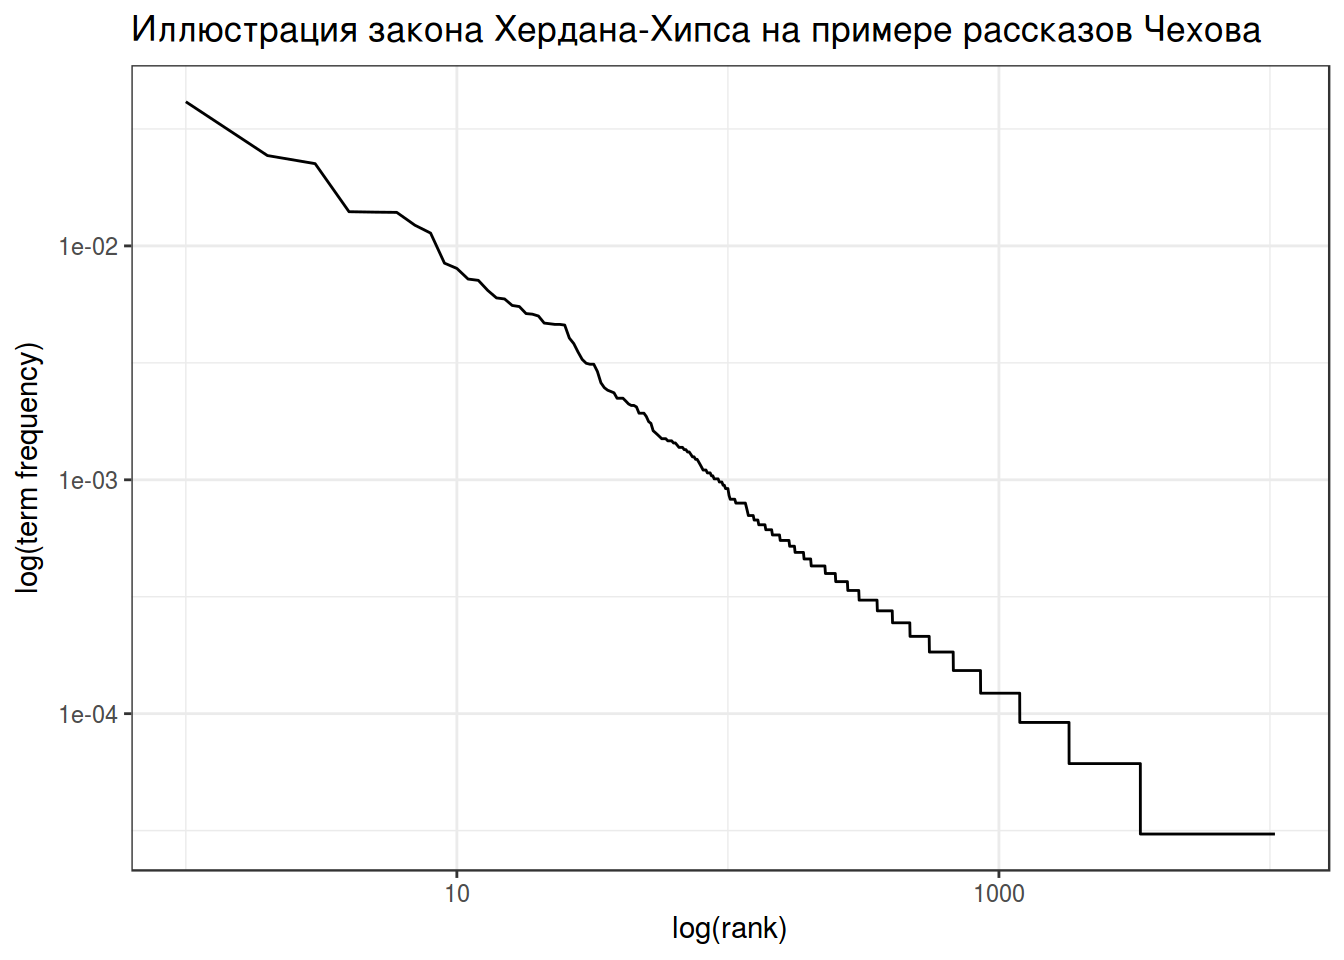
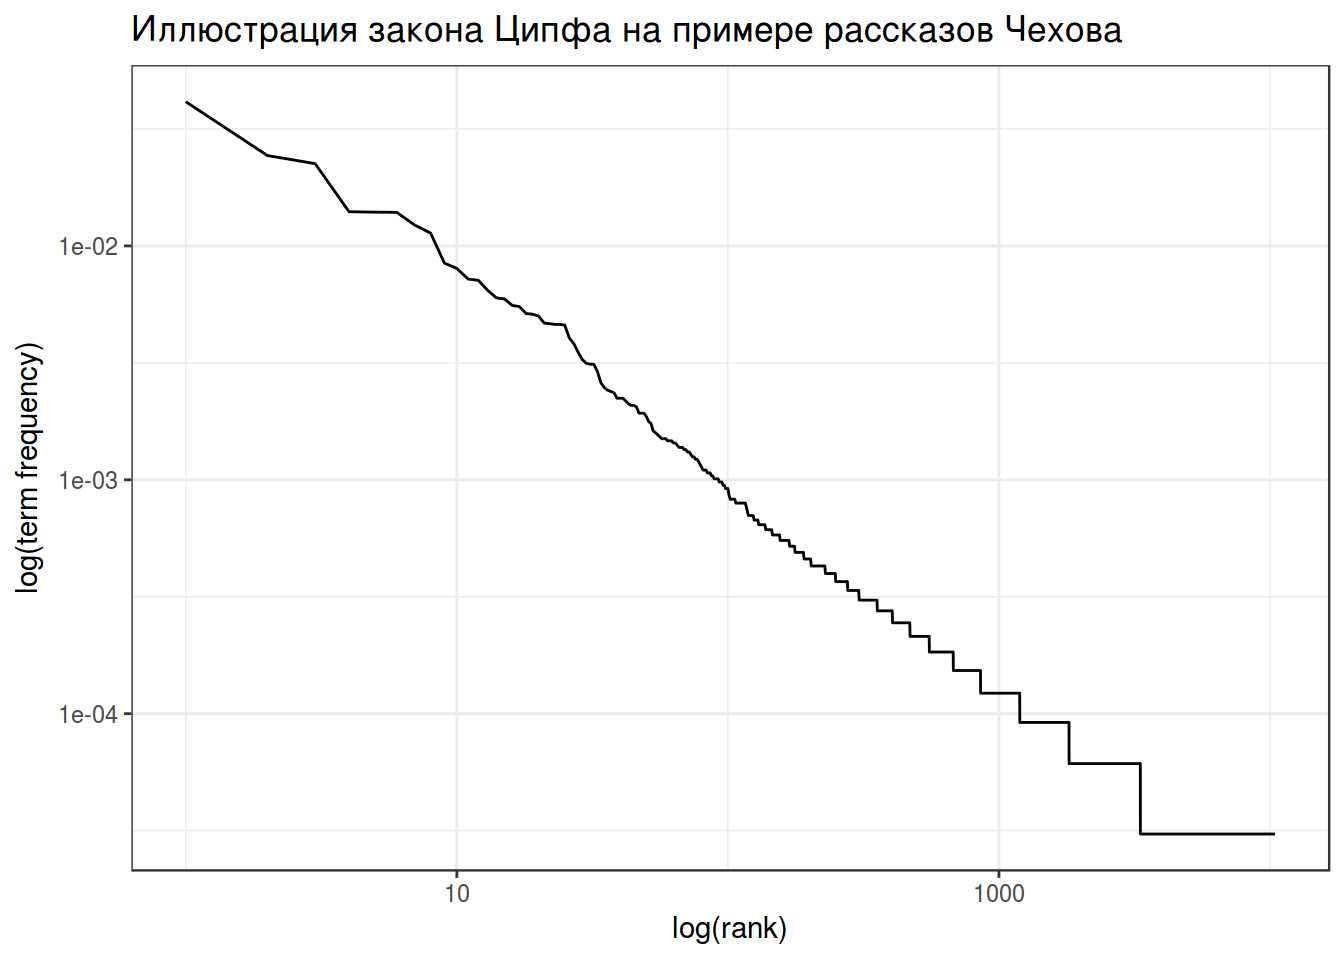
correct  prezi

Changed region(s): [[0.375, 0.0, 0.9375, 0.0625]]

diff --git a/docs/Lab_7.html b/docs/Lab_7.html
@@ -543,7 +543,7 @@ fit<span class="op">$</span>coefficients</code></pre></div>
 <span class="st">  </span><span class="kw">geom_line</span>()<span class="op">+</span>
 <span class="st">  </span><span class="kw">scale_x_log10</span>() <span class="op">+</span>
 <span class="st">  </span><span class="kw">scale_y_log10</span>() <span class="op">+</span>
-<span class="st">  </span><span class="kw">labs</span>(<span class="dt">title =</span> <span class="st">&quot;Иллюстрация закона Хердана-Хипса на примере рассказов Чехова&quot;</span>,
+<span class="st">  </span><span class="kw">labs</span>(<span class="dt">title =</span> <span class="st">&quot;Иллюстрация закона Ципфа на примере рассказов Чехова&quot;</span>,
        <span class="dt">y =</span> <span class="st">&quot;log(term frequency)&quot;</span>,
        <span class="dt">x=</span> <span class="st">&quot;log(rank)&quot;</span>)<span class="op">+</span>
 <span class="st">  </span><span class="kw">theme_bw</span>()</code></pre></div>
